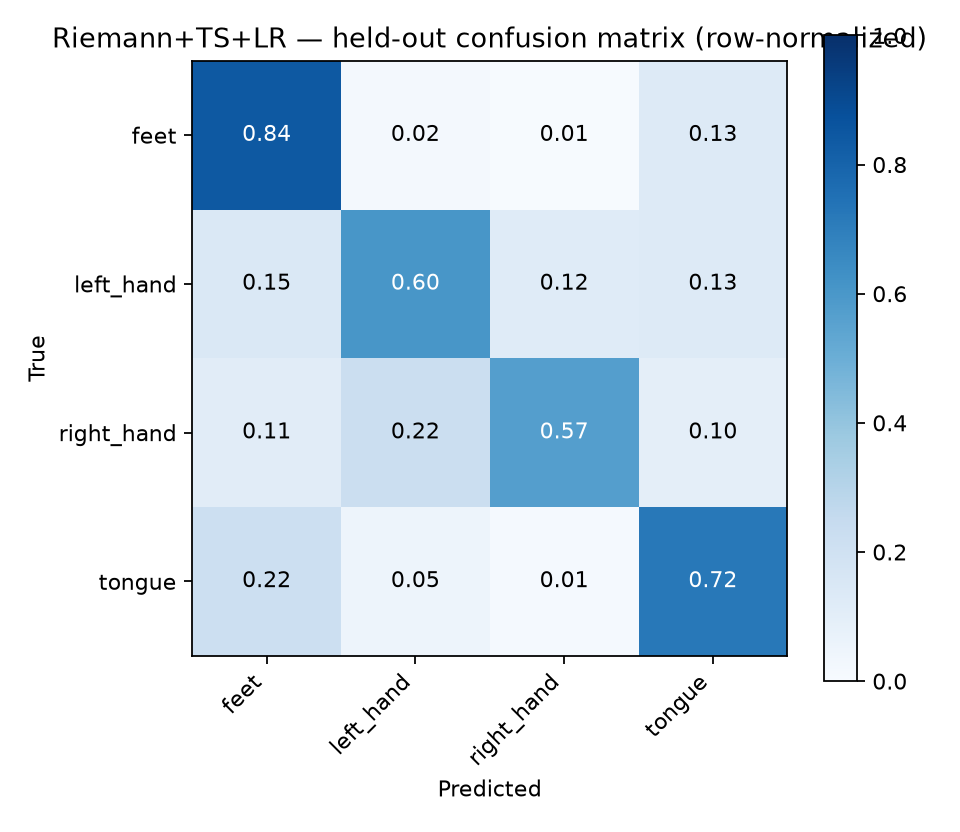
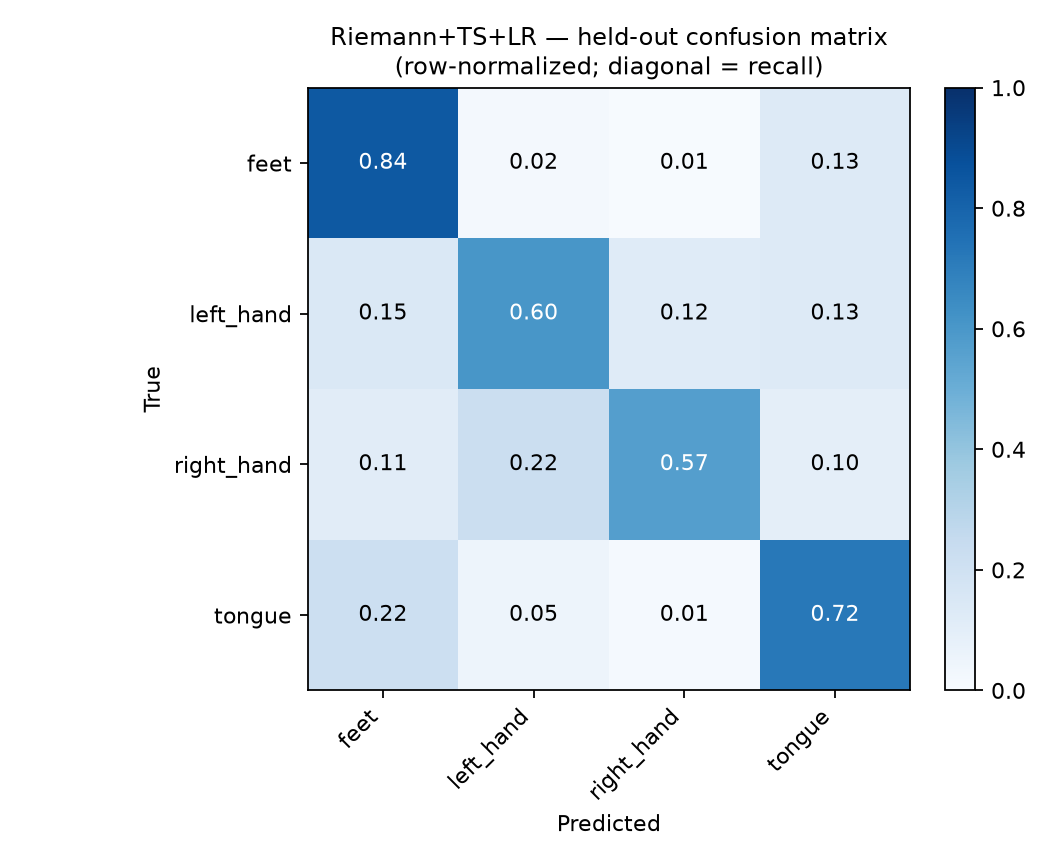
Fix confusion-matrix figure layout (title collided with colorbar)

diff --git a/scripts/make_report.py b/scripts/make_report.py
@@ -117,7 +117,7 @@ def fig_confusion(best_model: str):
         y_true, y_pred = z["y_true"], z[best_model]
         labels = np.unique(y_true)
         cm = confusion_matrix(y_true, y_pred, labels=labels, normalize="true")
-        fig, ax = plt.subplots(figsize=(6, 5.2))
+        fig, ax = plt.subplots(figsize=(6.6, 5.4))
         im = ax.imshow(cm, cmap="Blues", vmin=0, vmax=1)
         ax.set_xticks(range(len(labels)), labels, rotation=45, ha="right")
         ax.set_yticks(range(len(labels)), labels)
@@ -126,8 +126,8 @@ def fig_confusion(best_model: str):
                 ax.text(j, i, f"{cm[i,j]:.2f}", ha="center", va="center",
                         color="white" if cm[i, j] > 0.5 else "black")
         ax.set_xlabel("Predicted"); ax.set_ylabel("True")
-        ax.set_title(f"{best_model} — held-out confusion matrix (row-normalized)")
-        fig.colorbar(im)
+        ax.set_title(f"{best_model} — held-out confusion matrix\n(row-normalized; diagonal = recall)", fontsize=11)
+        fig.colorbar(im, ax=ax, fraction=0.046, pad=0.04)
         plt.tight_layout()
         plt.savefig(FIGS / f"confusion_best_{TAG}.png", dpi=160)
         plt.close()
